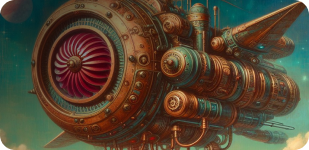
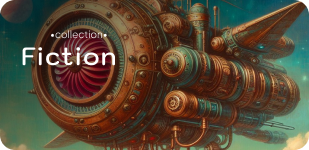
switch categories logic

Changed region(s): [[0.0583, 0.2933, 0.3786, 0.4533], [0.1456, 0.1867, 0.3495, 0.2667]]

diff --git a/lib/presentation/widgets/categories_swiper.dart b/lib/presentation/widgets/categories_swiper.dart
@@ -36,10 +36,10 @@ class _CategoriesSwiper extends State<CategoriesSwiper> {
           return Container(
             width: double.infinity,
             height: double.infinity,
-            decoration: const BoxDecoration(
-                borderRadius: BorderRadius.all(Radius.circular(4)),
+            decoration: BoxDecoration(
+                borderRadius: const BorderRadius.all(Radius.circular(4)),
                 image: DecorationImage(
-              image: AssetImage("assets/fiction.png"),
+              image: AssetImage('assets/${categories[index]}.png'),
             fit: BoxFit.cover)),
           );
         },
